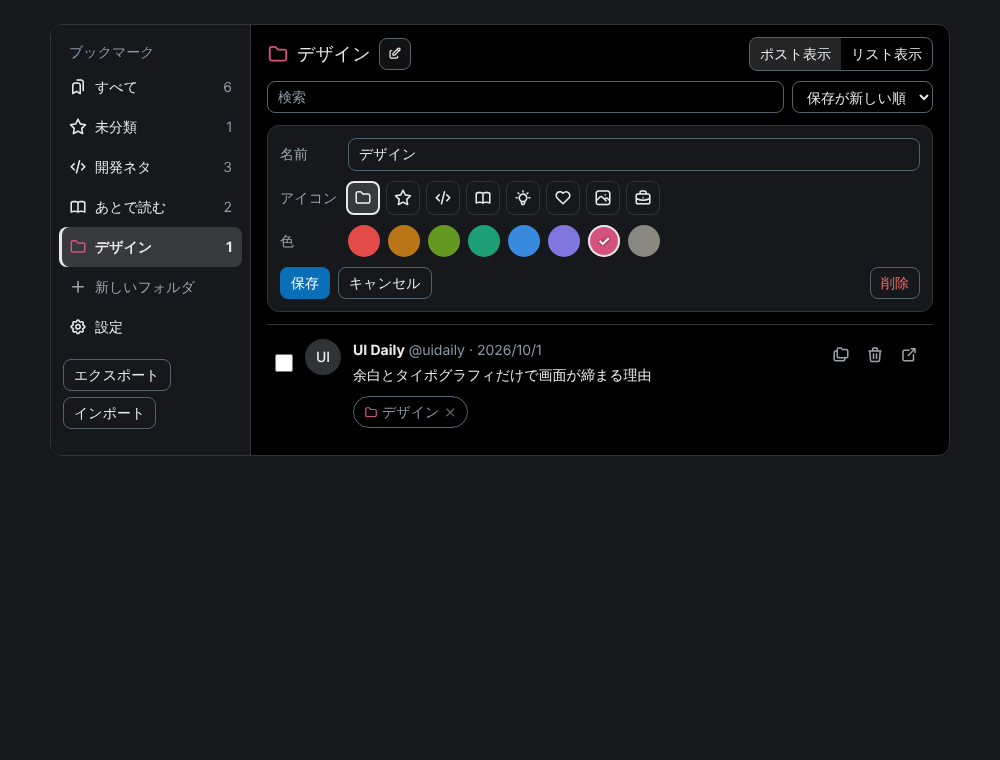
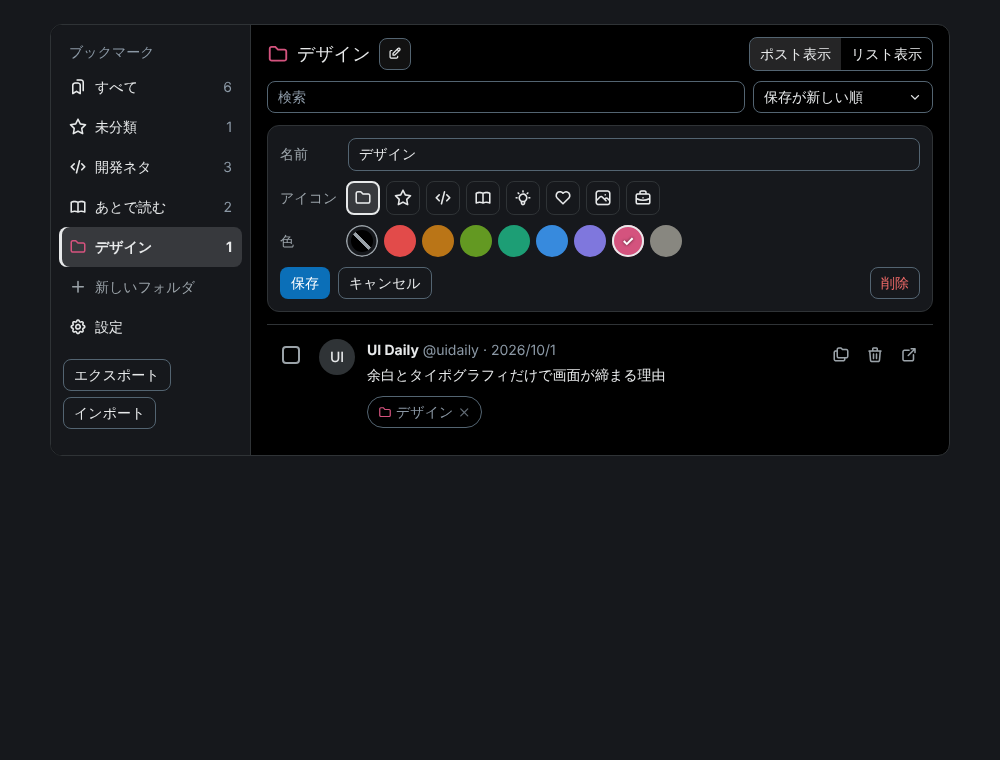
B: ダークモードの選択肢表示を修正 (color-scheme, option 配色, 並べ替えをアプリ内 listbox に置換)
Claude-Session: https://claude.ai/code/session_01LnJgDCHXRj2XU4oDVsQkv2

Changed region(s): [[0.341, 0.2724, 0.682, 0.3632], [0.279, 0.4237, 0.682, 0.5447], [0.744, 0.1211, 0.93, 0.1513]]

diff --git a/static/manager.css b/static/manager.css
@@ -15,6 +15,9 @@
   --fill-ghost-hover:rgba(231,233,234,.08);--fill-ghost-selected:rgba(231,233,234,.16);--fill-control:#2f3336;
   --bg-accent:#031018;--text-accent:#1d9bf0;--danger:#f06a68;
 }}
+/* OS のダーク/ライトにフォーム部品 (input, button, スクロールバー等) を追従させる */
+:root{color-scheme:light dark}
+option,optgroup{background:var(--surface-2);color:var(--text-primary)}
 *{box-sizing:border-box}
 body{margin:0;padding:24px;background:var(--surface-1);color:var(--text-primary);font:14px/1.6 system-ui,"Hiragino Sans","Yu Gothic",sans-serif}
 h1{font-size:16px;font-weight:500;margin:0 0 4px}
@@ -69,7 +72,7 @@ button:disabled{cursor:not-allowed}
 .empty{color:var(--text-secondary)}
 @media (max-width:640px){.ps{grid-template-columns:1fr}.side{border-right:0;border-bottom:.5px solid var(--border)}}
 .setting{display:flex;gap:10px;align-items:flex-start;padding:10px 0;cursor:pointer}
-.setting input{margin-top:4px;accent-color:var(--fill-accent)}
+.setting input{min-height:0;width:20px;height:20px;margin-top:4px;accent-color:var(--accent-strong);flex:none}
 .setting-desc{display:block;font-size:14px;margin-top:2px}
 .setting-group{border:.5px solid var(--border);border-radius:12px;margin:12px 0;padding:4px 12px 8px}
 .setting-group legend{padding:0 6px;font-weight:500}
@@ -78,8 +81,10 @@ button:disabled{cursor:not-allowed}
 .post,.mini{position:relative}
 .post{align-items:flex-start}
 .post.selected,.mini.selected{background:var(--bg-accent);box-shadow:inset 3px 0 0 var(--fill-accent)}
-.sel{width:18px;height:18px;margin:8px 0 0;padding:0;flex:none;accent-color:var(--fill-accent);cursor:pointer}
-.mini .sel{margin:0}
+.sel{appearance:none;-webkit-appearance:none;position:relative;width:32px;height:32px;min-height:32px;margin:0;padding:0;border:0;flex:none;background:transparent;cursor:pointer}
+.sel::before{content:'';position:absolute;inset:7px;border:2px solid var(--text-secondary);border-radius:4px;background:var(--surface-2)}
+.sel:checked::before{background:var(--accent-strong);border-color:var(--accent-strong)}
+.sel:checked::after{content:'✓';position:absolute;inset:0;display:flex;align-items:center;justify-content:center;color:#fff;font-weight:700;line-height:1}
 .row-actions{display:flex;gap:2px;margin-left:auto;align-items:center;flex:none}
 .icon-btn{width:32px;height:32px;display:inline-flex;align-items:center;justify-content:center;padding:0;border:0;border-radius:50%;color:var(--text-secondary);font-size:18px;text-decoration:none;cursor:pointer}
 .icon-btn:hover{background:var(--fill-ghost-hover);color:var(--text-primary)}
@@ -116,3 +121,13 @@ body{font-size:14px;line-height:1.6}
 .sw-none{background:linear-gradient(to top right,transparent calc(50% - 1.5px),var(--text-secondary) calc(50% - 1.5px),var(--text-secondary) calc(50% + 1.5px),transparent calc(50% + 1.5px)),var(--surface-2)!important;background-clip:content-box!important;box-shadow:0 0 0 1.5px var(--text-secondary) inset}
 .sw-none.on{box-shadow:0 0 0 2.5px var(--text-primary) inset}
 .sw-none.on::after{content:none}
+
+/* 並べ替え: ネイティブ select ではなくアプリ内の listbox (ポップアップが OS 任せで読めなくなるのを避ける) */
+.sortbox{position:relative}
+.sort-btn{display:inline-flex;align-items:center;gap:8px;min-width:180px;justify-content:space-between}
+.listbox{position:absolute;z-index:20;top:100%;right:0;min-width:100%;margin-top:4px;padding:6px;background:var(--surface-3);border:.5px solid var(--border-strong);border-radius:12px;box-shadow:var(--shadow-popover);outline:none}
+.listbox:focus-visible{outline:2px solid var(--fill-accent);outline-offset:2px}
+.option{display:flex;align-items:center;gap:8px;min-height:32px;padding:4px 10px;border-radius:8px;cursor:pointer;white-space:nowrap;color:var(--text-primary)}
+.option.active{background:var(--fill-ghost-hover);box-shadow:inset 0 0 0 1.5px var(--border-stronger)}
+.option[aria-selected=true]{font-weight:700;background:var(--fill-ghost-selected)}
+.option .ti-check{margin-left:auto;font-size:16px}

diff --git a/src/manager/ui.tsx b/src/manager/ui.tsx
@@ -1,4 +1,4 @@
-import { useEffect, useRef } from 'preact/hooks';
+import { useEffect, useRef, useState } from 'preact/hooks';
 import type { ComponentChildren } from 'preact';
 import { createFolderPicker } from '../shared/folderPicker';
 import { displayName, type Folder } from '../shared/models';
@@ -102,4 +102,98 @@ export function FolderPickerHost(props: { folders: Folder[]; selected: string[];
     host.current?.replaceChildren(picker.el);
   }, []);
   return <div ref={host} class="picker-host" />;
+}
+
+/**
+ * 並べ替え用のアプリ内 listbox。ネイティブ select のポップアップは OS 任せで配色が読めなくなることがあるため置き換えた。
+ * キーボード: ボタンで Enter/Space/↓ で開く。開いている間は ↑↓/Home/End で移動、Enter/Space で決定、Esc で閉じる。
+ */
+export function SortMenu<T extends string>(props: { value: T; options: [T, string][]; label: string; onChange: (v: T) => void }) {
+  const [open, setOpen] = useState(false);
+  const [active, setActive] = useState(0);
+  const btn = useRef<HTMLButtonElement>(null);
+  const list = useRef<HTMLDivElement>(null);
+  const uid = useRef(`sort-${Math.random().toString(36).slice(2, 7)}`).current;
+  const cur = props.options.find(([v]) => v === props.value);
+
+  const openMenu = () => {
+    setActive(Math.max(0, props.options.findIndex(([v]) => v === props.value)));
+    setOpen(true);
+  };
+  const close = (refocus = true) => {
+    setOpen(false);
+    if (refocus) btn.current?.focus();
+  };
+  const choose = (i: number) => {
+    props.onChange(props.options[i][0]);
+    close();
+  };
+  useEffect(() => {
+    if (open) list.current?.focus();
+  }, [open]);
+  useEffect(() => {
+    if (!open) return;
+    const down = (e: MouseEvent) => {
+      const n = e.target as Node;
+      if (!list.current?.contains(n) && !btn.current?.contains(n)) close(false);
+    };
+    document.addEventListener('mousedown', down);
+    return () => document.removeEventListener('mousedown', down);
+  }, [open]);
+
+  const onBtnKey = (e: KeyboardEvent) => {
+    if (e.key === 'ArrowDown' || e.key === 'ArrowUp') {
+      e.preventDefault();
+      openMenu();
+    }
+  };
+  const onListKey = (e: KeyboardEvent) => {
+    const n = props.options.length;
+    if (e.key === 'ArrowDown') setActive((a) => (a + 1) % n);
+    else if (e.key === 'ArrowUp') setActive((a) => (a - 1 + n) % n);
+    else if (e.key === 'Home') setActive(0);
+    else if (e.key === 'End') setActive(n - 1);
+    else if (e.key === 'Enter' || e.key === ' ') choose(active);
+    else if (e.key === 'Escape') close();
+    else if (e.key === 'Tab') close(false);
+    else return;
+    e.preventDefault();
+    e.stopPropagation();
+  };
+
+  return (
+    <div class="sortbox">
+      <button
+        ref={btn}
+        type="button"
+        class="sort-btn"
+        aria-haspopup="listbox"
+        aria-expanded={open}
+        aria-controls={uid}
+        aria-label={`${props.label}: ${cur?.[1] ?? ''}`}
+        onClick={() => (open ? close() : openMenu())}
+        onKeyDown={onBtnKey}
+      >
+        <span>{cur?.[1]}</span>
+        <Icon name="ti-chevron-down" />
+      </button>
+      {open && (
+        <div ref={list} id={uid} class="listbox" role="listbox" tabIndex={-1} aria-label={props.label} aria-activedescendant={`${uid}-${active}`} onKeyDown={onListKey}>
+          {props.options.map(([v, l], i) => (
+            <div
+              id={`${uid}-${i}`}
+              role="option"
+              class={`option${i === active ? ' active' : ''}`}
+              aria-selected={v === props.value}
+              onMouseEnter={() => setActive(i)}
+              onClick={() => choose(i)}
+            >
+              <span>{l}</span>
+              {v === props.value && <Icon name="ti-check" />}
+            </div>
+          ))}
+        </div>
+      )}
+    </div>
+  );
 }

diff --git a/test/manager.test.tsx b/test/manager.test.tsx
@@ -184,4 +184,31 @@ describe('manager organizing', () => {
     f = (await listFolders()).find((x) => x.id === a)!;
     expect(f.color).toBeUndefined();
   });
+
+  it('sort is an in-app listbox with aria and full keyboard support', async () => {
+    const btn = $<HTMLButtonElement>('.sort-btn');
+    expect(btn.getAttribute('aria-haspopup')).toBe('listbox');
+    expect(btn.getAttribute('aria-expanded')).toBe('false');
+    expect($$('select').length).toBe(0); // ネイティブ select は使わない
+    await click(btn);
+    const list = $('[role=listbox]');
+    expect(btn.getAttribute('aria-expanded')).toBe('true');
+    expect($$('[role=option]').length).toBe(4);
+    expect($('[role=option][aria-selected=true]').textContent).toContain('保存が新しい順');
+    expect(list.getAttribute('aria-activedescendant')).toBe($$('[role=option]')[0].id);
+    await key(list, 'ArrowDown');
+    expect(list.getAttribute('aria-activedescendant')).toBe($$('[role=option]')[1].id);
+    await key(list, 'End');
+    await key(list, 'Enter'); // 投稿が古い順
+    expect($$('[role=listbox]').length).toBe(0);
+    expect(btn.textContent).toContain('投稿が古い順');
+    expect(document.activeElement).toBe(btn);
+    await click(btn);
+    await key($('[role=listbox]'), 'Escape');
+    expect($$('[role=listbox]').length).toBe(0);
+    await key(btn, 'ArrowDown');
+    expect($$('[role=listbox]').length).toBe(1);
+    await click($$('[role=option]')[1]); // 保存が古い順
+    expect(rowIds()).toEqual(['1', '2', '3', '4']);
+  });
 });

diff --git a/src/content/theme.ts b/src/content/theme.ts
@@ -4,6 +4,8 @@ export interface XTheme {
   border: string;
   hover: string;
   accent: string;
+  /** ネイティブのフォーム部品・スクロールバーを合わせるための color-scheme */
+  scheme: 'light' | 'dark';
 }
 
 function parse(rgb: string): [number, number, number] | null {
@@ -19,10 +21,10 @@ export function xTheme(): XTheme {
   const rgb = parse(getComputedStyle(document.body).backgroundColor);
   const lum = rgb ? (0.299 * rgb[0] + 0.587 * rgb[1] + 0.114 * rgb[2]) / 255 : 1;
   const accent = '#1d9bf0';
-  if (lum > 0.5) return { bg: '#ffffff', fg: '#0f1419', border: '#cfd9de', hover: 'rgba(15,20,25,.06)', accent };
+  if (lum > 0.5) return { bg: '#ffffff', fg: '#0f1419', border: '#cfd9de', hover: 'rgba(15,20,25,.06)', accent, scheme: 'light' };
   // ダーク青 (dim) は青みがある (b > r)。それ以外 (lights out) は黒系。
   const dim = !!rgb && rgb[2] - rgb[0] > 15;
   return dim
-    ? { bg: '#1e2732', fg: '#f7f9f9', border: '#38444d', hover: 'rgba(247,249,249,.08)', accent }
-    : { bg: '#16181c', fg: '#e7e9ea', border: '#2f3336', hover: 'rgba(231,233,234,.08)', accent };
+    ? { bg: '#1e2732', fg: '#f7f9f9', border: '#38444d', hover: 'rgba(247,249,249,.08)', accent, scheme: 'dark' }
+    : { bg: '#16181c', fg: '#e7e9ea', border: '#2f3336', hover: 'rgba(231,233,234,.08)', accent, scheme: 'dark' };
 }

diff --git a/src/manager/App.tsx b/src/manager/App.tsx
@@ -33,7 +33,7 @@ import {
   type BookmarkUndo,
 } from '../shared/storage';
 import { MIME_FOLDER, MIME_POSTS, moveBefore, pruneSelection, rangeIds } from './selection';
-import { Confirm, Dropdown, FolderMenu, FolderPickerHost, Toast } from './ui';
+import { Confirm, Dropdown, FolderMenu, FolderPickerHost, SortMenu, Toast } from './ui';
 
 const sorts = (): [SortKey, string][] => [
   ['savedDesc', t('sortSavedDesc')],
@@ -300,11 +300,7 @@ export function App() {
                 value={search}
                 onInput={(e) => setSearch((e.target as HTMLInputElement).value)}
               />
-              <select aria-label={t('sortLabel')} value={sort} onChange={(e) => setSort((e.target as HTMLSelectElement).value as SortKey)}>
-                {SORTS.map(([k, l]) => (
-                  <option value={k}>{l}</option>
-                ))}
-              </select>
+              <SortMenu label={t('sortLabel')} value={sort} options={SORTS} onChange={setSort} />
             </div>
             {selected.size > 0 && (
               <div class="bulk" role="toolbar">

diff --git a/src/content/popover.ts b/src/content/popover.ts
@@ -42,7 +42,7 @@ export async function openPopover(article: Element, anchor: HTMLElement): Promis
   pop.className = POP_CLASS;
   pop.setAttribute('role', 'dialog');
   const th = xTheme();
-  pop.style.cssText = `position:fixed;z-index:2147483647;top:0;left:0;min-width:240px;max-width:300px;background:${th.bg};color:${th.fg};border:.5px solid ${th.border};border-radius:12px;padding:8px;box-shadow:0 8px 24px rgba(0,0,0,.2),0 2px 6px rgba(0,0,0,.12);font:14px/1.4 system-ui,sans-serif`;
+  pop.style.cssText = `position:fixed;z-index:2147483647;top:0;left:0;color-scheme:${th.scheme};min-width:240px;max-width:300px;background:${th.bg};color:${th.fg};border:.5px solid ${th.border};border-radius:12px;padding:8px;box-shadow:0 8px 24px rgba(0,0,0,.2),0 2px 6px rgba(0,0,0,.12);font:14px/1.4 system-ui,sans-serif`;
   pop.addEventListener('click', (e) => e.stopPropagation());
 
   const save = async () => {

diff --git a/test/css.test.ts b/test/css.test.ts
@@ -1,0 +1,17 @@
+import { readFileSync } from 'node:fs';
+import { resolve } from 'node:path';
+import { describe, expect, it } from 'vitest';
+
+const css = (f: string) => readFileSync(resolve(process.cwd(), 'static', f), 'utf8');
+
+describe('dark mode form controls', () => {
+  it('manager.css (also used by the popup) follows the OS color scheme', () => {
+    expect(css('manager.css')).toMatch(/:root\s*\{\s*color-scheme:\s*light dark/);
+  });
+  it('option / optgroup get explicit colors', () => {
+    expect(css('manager.css')).toMatch(/option,\s*optgroup\s*\{[^}]*background:\s*var\(--surface-2\)[^}]*color:\s*var\(--text-primary\)/);
+  });
+  it('the popup page loads manager.css', () => {
+    expect(readFileSync(resolve(process.cwd(), 'static/popup.html'), 'utf8')).toContain('manager.css');
+  });
+});

diff --git a/test/theme.test.ts b/test/theme.test.ts
@@ -9,6 +9,8 @@ afterEach(() => (document.body.style.backgroundColor = ''));
 
 describe('xTheme', () => {
   it('detects light / dark / dim', () => {
+    expect(withBg('rgb(255, 255, 255)').scheme).toBe('light');
+    expect(withBg('rgb(0, 0, 0)').scheme).toBe('dark');
     expect(withBg('rgb(255, 255, 255)').bg).toBe('#ffffff');
     expect(withBg('rgb(0, 0, 0)').bg).toBe('#16181c');
     expect(withBg('rgb(21, 32, 43)').bg).toBe('#1e2732');

diff --git a/docs/MANUAL_TEST.md b/docs/MANUAL_TEST.md
@@ -85,3 +85,9 @@
 - [ ] アイコンを変えても色が消えない。「色なし」(斜線の丸) を選ぶと色が外れ、文字色で表示される
 - [ ] 色付きアイコンが、サイドバー・ポストのチップ・x.com のポップオーバー・リスト表示のアイコンに反映される
 - [ ] v4 以前に保存したフォルダ (folder 以外のアイコンで色なし) がそのまま表示される。「すべて」「未分類」は編集できない
+
+## v5-B ダークモードの選択肢
+- [ ] OS / Chrome がダークのとき、並べ替えを開いても選択肢が読める (背景が暗く、文字が明るい)。ライトでも同様
+- [ ] 並べ替えがキーボードで操作できる (Enter / Space / ↓ で開く、↑↓ Home End で移動、Enter で決定、Esc で閉じる)。フォーカスリングが見える
+- [ ] ダーク時に、スクロールバー・入力欄・ボタンも暗い配色になる (manager / popup)
+- [ ] x.com のダーク/ダーク青テーマで、ポップオーバー内の入力欄・スクロールバーが暗い配色になる
